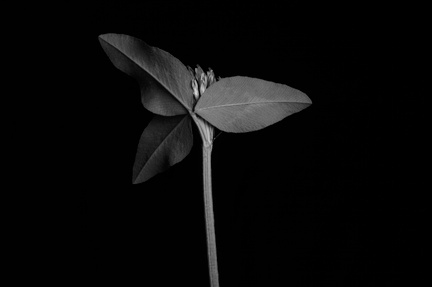
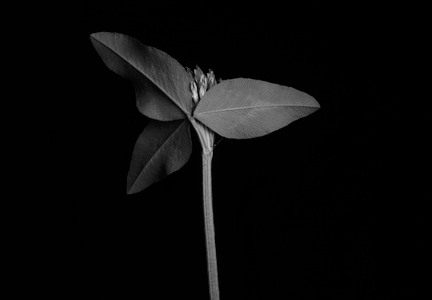
fix images gallery 2

diff --git a/layouts/partials/template/head.html b/layouts/partials/template/head.html
@@ -23,12 +23,10 @@
 	<noscript><link rel="stylesheet" href="{{ ($noscript | minify).RelPermalink }}" /></noscript>
 	{{end}}
 
-	<style>
-		
+	<!-- <style>
 		.gallery.style2 article .image img {
-			height: 386px;
-			object-fit: cover;
+			width: 100%;
+			object-fit: contain;
 		}
-
-	</style>
+	</style> -->
 </head>
